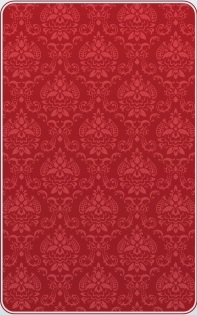
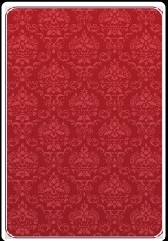
nýtt cardback, spider takkar allsstaðar

diff --git a/SpiderGUI.py b/SpiderGUI.py
@@ -36,11 +36,11 @@ deck_y = windowHeight - 150
 pile_x = 30
 pile_y = windowHeight - 150
 #Coordinates of the timer
-timer_x = windowWidth/2 + 40
-timer_y = 4
+timer_x = 10
+timer_y = windowHeight-15
 #Coordinates of the score
-score_x = windowWidth/2 - 60
-score_y = 4
+score_x = 110
+score_y = windowHeight-15
 #coordinates of instructions
 instr_x = windowWidth-297
 instr_y = 4
@@ -295,20 +295,20 @@ def play(spiderWindow):
 #post: creates a new instance of the Spider Solitaire 'game' with n number of suits in play.
 #      surface is the game window.
 def initialize(surface, suitNo):
-    global game #game is a SpiderSolitaire object
-    global stacks #stacks is a list,contains the stack of cards used in the game
-    global deal #number of deals left
-    global m #space between stacks and coordinates of the stacks.
-    global x #x is a point on the x-axis of the coordinate system used in the game
-    global cardBack #back of card picture
-    global aces #list of aces, spidercard objects
+    global game
+    global stacks
+    global deal
+    global m
+    global x
+    global cardBack
+    global aces
     global font
-    global helpOn 
+    global helpOn
     global overlay
     global hiscores
     global time
-    global revealedGapByStack #length of gap that is in use for the particular stack in question, stack is not hidden
-    global background #background currently in use
+    global revealedGapByStack
+    global background
     
     overlay = pygame.Surface((windowWidth, windowHeight))
     overlay.set_alpha(200)
@@ -348,7 +348,7 @@ def initialize(surface, suitNo):
     #cardBack = pygame.transform.smoothscale(cardBack, (cardWidth, cardHeight))
     #cardBack.set_colorkey(BLACK)
     
-    changeCardback('Cardbacks/standard_back.png', surface)
+    changeCardback('Cardbacks/red.jpg', surface)
                           
 
     updateHitboxes()
@@ -402,8 +402,7 @@ def playDealAnimation(surface, p=100):
     background = surface.copy()
     vectors = getAllDealVectors(p)
     tempCard = SpiderCard('H', 1)
-    #print vectors
-    
+    print vectors
     for n in range(0, colNum):
         background = surface.copy()
         if n == colNum-1:
@@ -538,7 +537,8 @@ def updateHitbox(i):
         stackhboxes[i] = hitbox
         stackHeight[i] = cardHeight
         return
-    
+        
+        
     cards = stack.getStack()[0]
     hitstack = []
     
@@ -744,10 +744,7 @@ def createMenuButton(surface):
     surface.blit(spider, (windowWidth-65, windowHeight-65))
     spiderBox = pygame.Rect(windowWidth-65, windowHeight-65, spiderW, spiderH)
     pygame.display.update(spiderBox)
-
-#use: toggleMenu(surface)
-#pre: surface is the background surface, pygame Surface object
-#post: if menu was not on display, it has now been set on, else off
+   
 def toggleMenu(surface):
     global menuOn
     global background
@@ -843,10 +840,6 @@ def menu(surface):
                     surface.blit(background, (0,0))
                     toggleHelp(surface)
 
-
-#use: toggleMenu(surface)
-#pre: surface is a pygame Surface object
-#post: toggles the settings interface depending on whether it's on or off
 def toggleSettings(surface):
     global background
     global settOn
@@ -944,9 +937,7 @@ def settingsMenu(surface):
                     elif detectSettingsCol():
                         toggleSettings(surface)
 
-#use: toggleHighscores(surface)
-#pre: surface is a pygame Surface object
-#post: toggles the high scores interface depending on whether it's on or off
+                    
 def toggleHighscores(surface):
     global background
     global hsOn
@@ -960,13 +951,10 @@ def toggleHighscores(surface):
         background = surface.copy()                           
         highscoresMenu(surface)
 
-#use: highscoresMenu(surface)
-#pre: surface is a pygame Surface object
-#post: displays the top 10 scores in the game
 def highscoresMenu(surface):
     global hsScreen
     global backButton
-    global hsOn 
+    global hsOn
     
     hsOn = True
     
@@ -975,7 +963,6 @@ def highscoresMenu(surface):
     hsScreen.fill(pygame.Color(0,0,0))
     surface.blit(hsScreen, (0,0))
     
-    #specify back-button attributes
     back_x = 50
     back_y = windowHeight - 100
     back_width = 100
@@ -988,7 +975,6 @@ def highscoresMenu(surface):
     back = backfont.render('Back', True, (248, 248, 255))
     backSurf.blit(back, (0,0))
     
-    #changes certain coordinates depending on the resolution of the user
     if windowWidth > 1024:
         labels_y = 100
         name_label_x = 300
@@ -1002,24 +988,25 @@ def highscoresMenu(surface):
         diff_label_x = 700
         medal_pos = (windowWidth-200,windowHeight-285)
         scores_y = labels_y + 100
-    
-    #the name,scores and difficulty labels rendered
+        
     name_label = font.render('Name', True, (248, 248, 255))
     score_label = font.render('Score', True, (248, 248, 255))
     diff_label = font.render('Difficulty', True, (248, 248, 255))
     
-    #scorefont is the font used for the hall-of-famers
+    
+    
     scorefont = pygame.font.SysFont(None, 24)
     top_scores = LoadScores()
     
-    #score_cnt used as an index to fetch values for the highest scorers
+    max_scores = 15 #specify max number of high scores to be displayed
     score_cnt = 0
     
-    
     for score in top_scores:
-        name_val = score[0] #name of the selected high scorer
-        score_val = str(score[1]) #score of the selected high scorer
-        level_val = score[2]#difficulty level of the selected high scorer
+        if score_cnt > max_scores:
+            break
+        name_val = score[0]
+        score_val = str(score[1])
+        level_val = score[2]
         name = scorefont.render(name_val, True, (248, 248, 255))
         score = scorefont.render(score_val, True, (248, 248, 255))
         diff = scorefont.render(level_val, True, (248, 248, 255))
@@ -1028,15 +1015,12 @@ def highscoresMenu(surface):
         surface.blit(diff, (diff_label_x, scores_y))                
         score_cnt += 1
         scores_y += 30
-        # (score_cnt+1)-nth highest scorer has been displayed
-    #top 10 scores have been put on the scoreboard
-
 
     surface.blit(backSurf, (back_x, back_y))
     surface.blit(name_label, (name_label_x, labels_y))
     surface.blit(score_label, (score_label_x, labels_y))
     surface.blit(diff_label, (diff_label_x, labels_y))
-    
+    createMenuButton(surface)
     pygame.display.update()
     
     while hsOn:
@@ -1047,6 +1031,8 @@ def highscoresMenu(surface):
             elif event.type == MOUSEBUTTONDOWN:
                 mouseXY = pygame.mouse.get_pos()
                 back_rect = pygame.Rect(back_x, back_y, back_width, back_height)
+                if detectSettingsCol():
+                    toggleHighscores(surface)
                 if back_rect.collidepoint(mouseXY):
                     toggleHighscores(surface)
                     toggleMenu(surface)
@@ -1056,9 +1042,6 @@ def highscoresMenu(surface):
                     toggleMenu(surface)   
 
 
-#use: toggleHelp(surface)
-#pre: surface is a pygame Surface object
-#post: toggles the help interface depending on whether it's on or off
 def toggleHelp(surface):
     global background
     global helpOn
@@ -1115,7 +1098,7 @@ def helpMenu(surface):
     surface.blit(text8, (windowWidth/2-225,windowHeight/2+300))
     
     surface.blit(backSurf, (back_x, back_y))
-    
+    createMenuButton(surface)
     pygame.display.flip()
     
     while helpOn:
@@ -1126,7 +1109,9 @@ def helpMenu(surface):
             elif event.type == MOUSEBUTTONDOWN:
                 mouseXY = pygame.mouse.get_pos()
                 back_rect = pygame.Rect(back_x, back_y, back_width, back_height)
-                if back_rect.collidepoint(mouseXY):
+                if detectSettingsCol():
+                    toggleHelp(surface)
+                elif back_rect.collidepoint(mouseXY):
                     toggleHelp(surface)
                     toggleMenu(surface)
             elif event.type == KEYDOWN:
